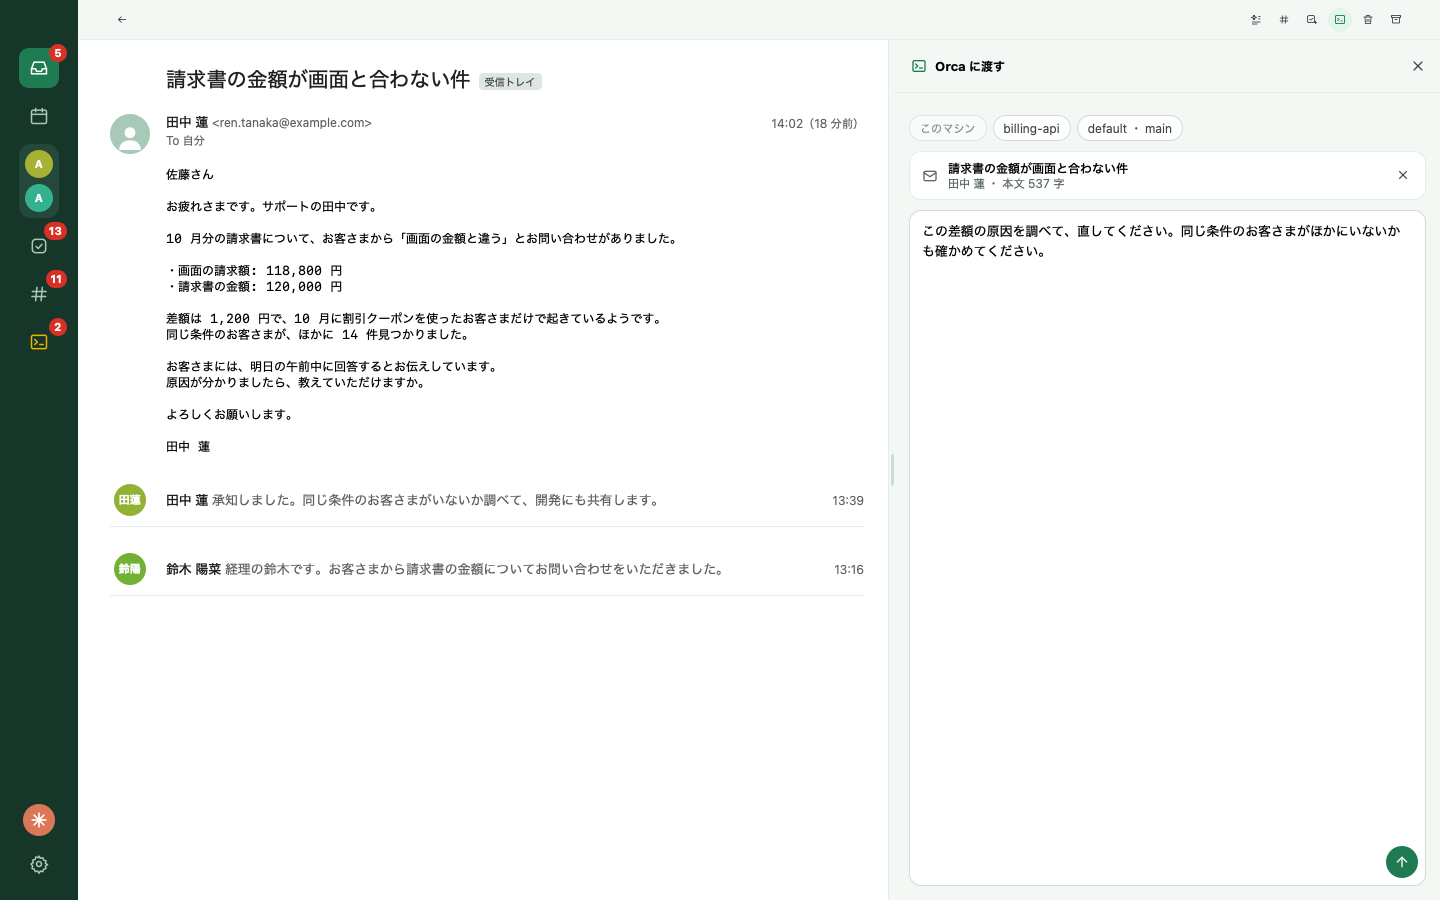
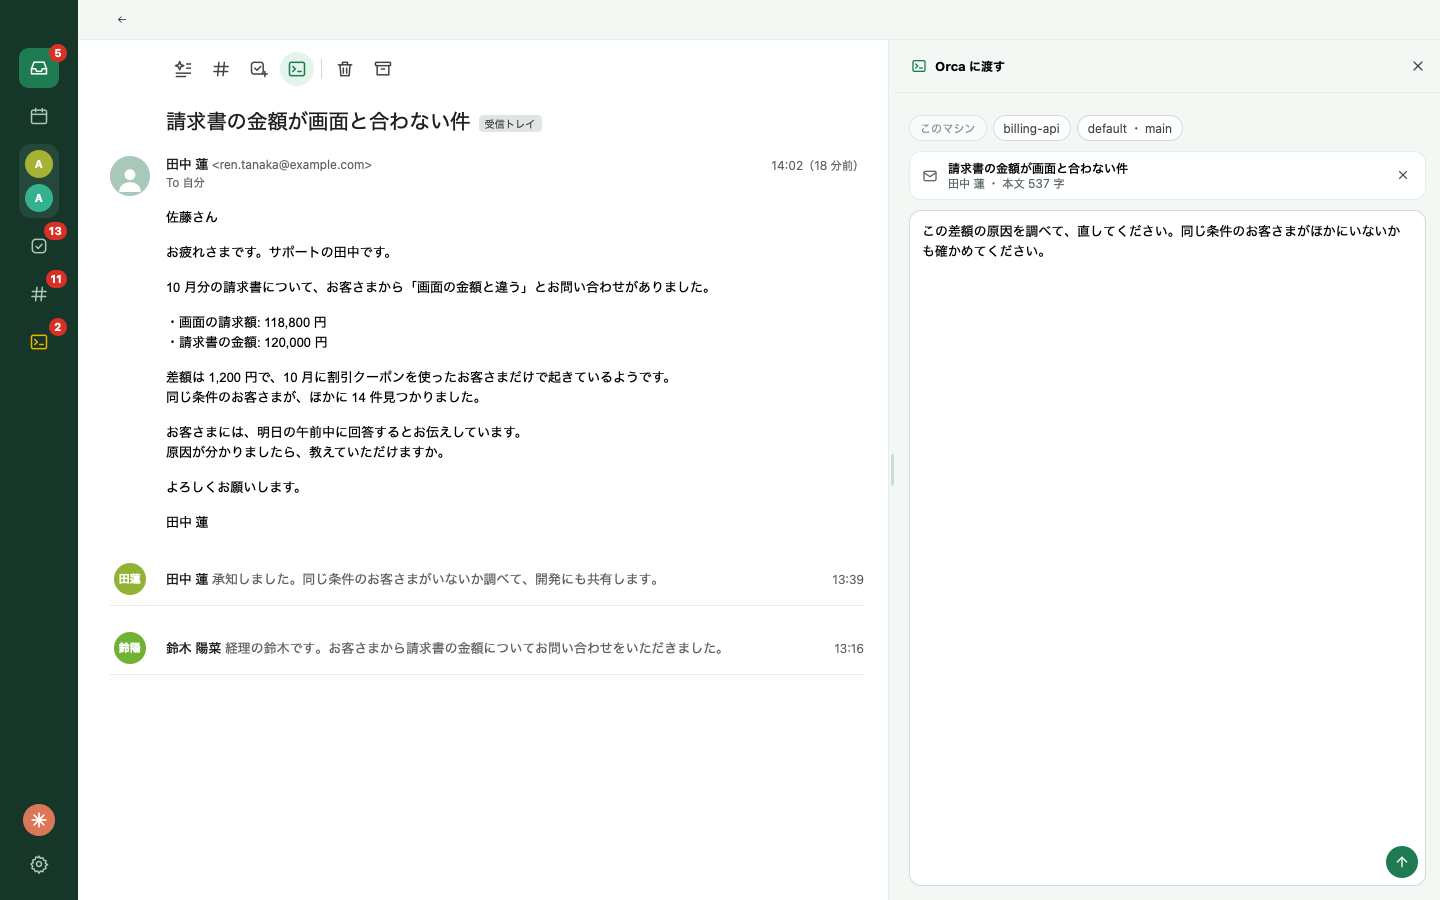
docs: README の写真を撮り直し、Slack の既読のボタンの名前を直す (#503, #504)

diff --git a/README.md b/README.md
@@ -64,7 +64,7 @@
     </td>
     <td width="50%" valign="top">
       <strong>Slack</strong><br />
-      チャンネルをサイドメニューに並べ、未読はチャンネルごとにまとめて「既読に設定」で片づけます。履歴の表示と投稿もできます。<br /><br />
+      チャンネルをサイドメニューに並べ、未読はチャンネルごとにまとめて「既読にする」で片づけます。履歴の表示と投稿もできます。<br /><br />
       <img src="docs/assets/readme/slack.png" alt="サイドメニューにワークスペースとチャンネルが並び、未読がチャンネルごとにまとまった Slack の画面" />
     </td>
   </tr>
